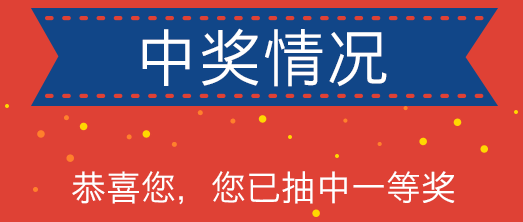
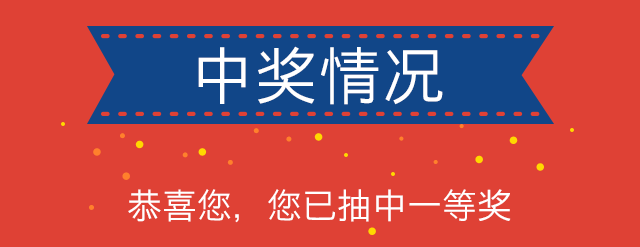
cheniu-american

diff --git a/demo/zilong/acts/cheniu/award.html b/demo/zilong/acts/cheniu/award.html
@@ -1,0 +1,133 @@
+<!doctype html>
+<html>
+<head>
+    <meta charset="utf-8">
+    <meta name="viewport" content="height=device-height,width=device-width,initial-scale=1,maximum-scale=1,minimum-scale=1,user-scalable=no"/>
+    <meta content="telephone=no" name="format-detection" />
+    <meta name="apple-touch-fullscreen" content="yes" />
+    <meta name="apple-mobile-web-app-capable" content="yes" />
+    <meta name="apple-mobile-web-app-status-bar-style" content="black" />
+    <title>车牛，二手车收购批发神器</title>
+    <style>
+        *{
+            margin:0;
+            padding:0;
+        }
+        img{
+            vertical-align: middle;
+            width: 100%;
+        }
+        body{
+            background: #DF4034;
+        }
+        #up-back{
+            padding: 8px 0;
+            height: 20px;
+            background: #DF4034 url(../../../../assets/images/mob/cheniu/acts/america/up.png) no-repeat center;
+            background-size: 19px 15px;
+            display: block;
+        }
+        #person-info{
+            color:#fff;
+        }
+        #person-info .info-item{
+            margin: 5px;
+            text-align: center;
+            font-size: 13px;
+        }
+        #person-info .form-input{
+            height: 20px;;
+            width: 180px;
+            border: none;
+        }
+        #person-info label{
+            width: 75px;
+            display: inline-block;
+            line-height: 20px;
+        }
+        #btn-submit{
+            width: 190px;
+            height: 30px;
+            background: #114688;
+            color: #fff;
+            line-height: 30px;
+            border:none;
+            border-radius: 3px;
+            margin-top: 10px;
+            font-size: 14px;
+        }
+        #award-list{
+            margin:35px 0 30px 25px;
+            color:#9E1005;
+        }
+        #award-list p{
+            margin: 15px 0;
+            font-size: 12px;
+        }
+        #award-wait{
+            margin: 90px 0 160px 0;
+            text-align: center;
+            color:#9E1005;
+        }
+        #award-no{
+            margin: 90px 0 160px 0;
+            text-align: center;
+            color:#fff;
+        }
+    </style>
+</head>
+<body>
+    <a id="up-back" href="#"></a>
+    <div id="award-condition">
+        <img src="../../../../assets/images/mob/cheniu/acts/america/award-cond.png">
+        <!--<img src="../../../../assets/images/mob/cheniu/acts/america/first-award.png">
+        <img src="../../../../assets/images/mob/cheniu/acts/america/second-award.png">
+        <img src="../../../../assets/images/mob/cheniu/acts/america/big-award.png"> -->
+    </div>
+    <div id="award-wait">
+        奖项还未开出，请耐心等待...
+    </div>
+    <div id="award-no">
+        <p style="font-size: 16px">很遗憾，您当前未能中奖</p>
+        <p style="font-size: 13px;margin-top: 15px;">请关注明日10：00发布的新一轮任务</p>
+    </div>
+    <div id="person-info" style="display: none">
+        <form id="person-info-form">
+            <div class="info-item">
+                <label></label>
+                <span style="font-size: 12px">请详细填写您的资料以便收取奖品</span>
+            </div>
+            <div class="info-item">
+                <label for="select-award">选择奖品:</label>
+                <select class='form-input' type="text" id="select-award">
+                    <option value=""></option>
+                    <option value="">奖品一</option>
+                </select>
+            </div>
+            <div class="info-item">
+                <label for="address">收货地址:</label>
+                <input class='form-input' type="text" id="address">
+            </div>
+            <div class="info-item">
+                <label for="name">收件人:</label>
+                <input class='form-input' type="text" id="name">
+            </div>
+            <div class="info-item">
+                <label for="phone">联系电话:</label>
+                <input class='form-input' type="tel" id="phone">
+            </div>
+            <div class="info-item">
+               <button type="submit" id="btn-submit">提交并分享</button>
+            </div>
+        </form>
+    </div>
+
+    <div id="award-list">
+        <p>今日获奖名单公布</p>
+        <p>美国游大奖:张三</p>
+        <p>一等奖5名:张一，张二，张四</p>
+        <p>二等奖10名:</p>
+    </div>
+
+</body>
+</html>

diff --git a/demo/zilong/acts/cheniu/task-result.html b/demo/zilong/acts/cheniu/task-result.html
@@ -61,6 +61,7 @@
     <div id="task-result">
         <img src="../../../../assets/images/mob/cheniu/acts/america/task-outdate.png">
         <img src="../../../../assets/images/mob/cheniu/acts/america/task-complete.png">
+        <img src="../../../../assets/images/mob/cheniu/acts/america/task-quit.png">
     </div>
 
     <a id="task-footer" href="#">
